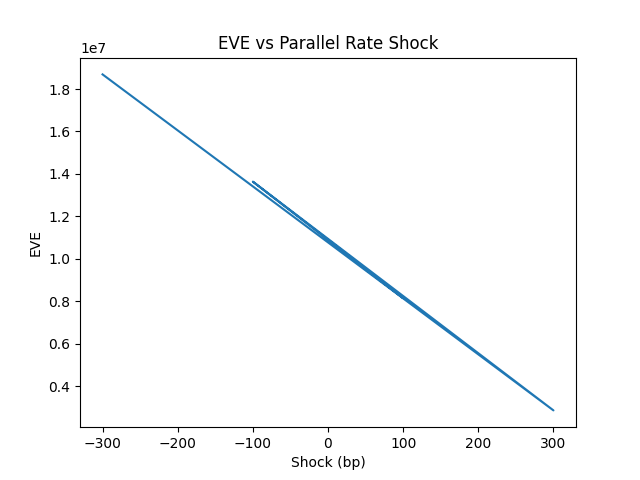
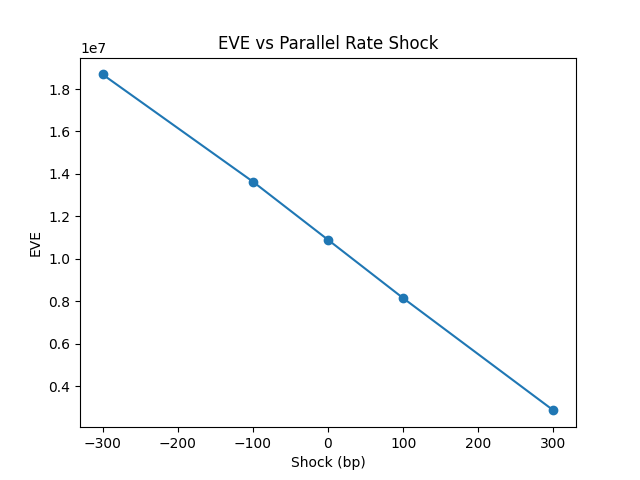
Fix chart sorting and improve visualization

diff --git a/run_mvp.py b/run_mvp.py
@@ -338,10 +338,11 @@ def main() -> None:
 
     # NII chart
     nii_plot = nii_df.copy()
-    nii_plot["shock_bp"] = nii_plot["rate_shift"] * 10000  # convert to bp
+    nii_plot["shock_bp"] = nii_plot["rate_shift"] * 10000
+    nii_plot = nii_plot.sort_values("shock_bp")
 
     plt.figure()
-    plt.plot(nii_plot["shock_bp"], nii_plot["nii"])
+    plt.plot(nii_plot["shock_bp"], nii_plot["nii"], marker='o')
     plt.xlabel("Shock (bp)")
     plt.ylabel("NII")
     plt.title("NII vs Parallel Rate Shock")
@@ -351,9 +352,10 @@ def main() -> None:
     # EVE chart
     eve_plot = eve_df.copy()
     eve_plot["shock_bp"] = eve_plot["rate_shift"] * 10000
+    eve_plot = eve_plot.sort_values("shock_bp")
 
     plt.figure()
-    plt.plot(eve_plot["shock_bp"], eve_plot["eve"])
+    plt.plot(eve_plot["shock_bp"], eve_plot["eve"], marker='o')
     plt.xlabel("Shock (bp)")
     plt.ylabel("EVE")
     plt.title("EVE vs Parallel Rate Shock")
